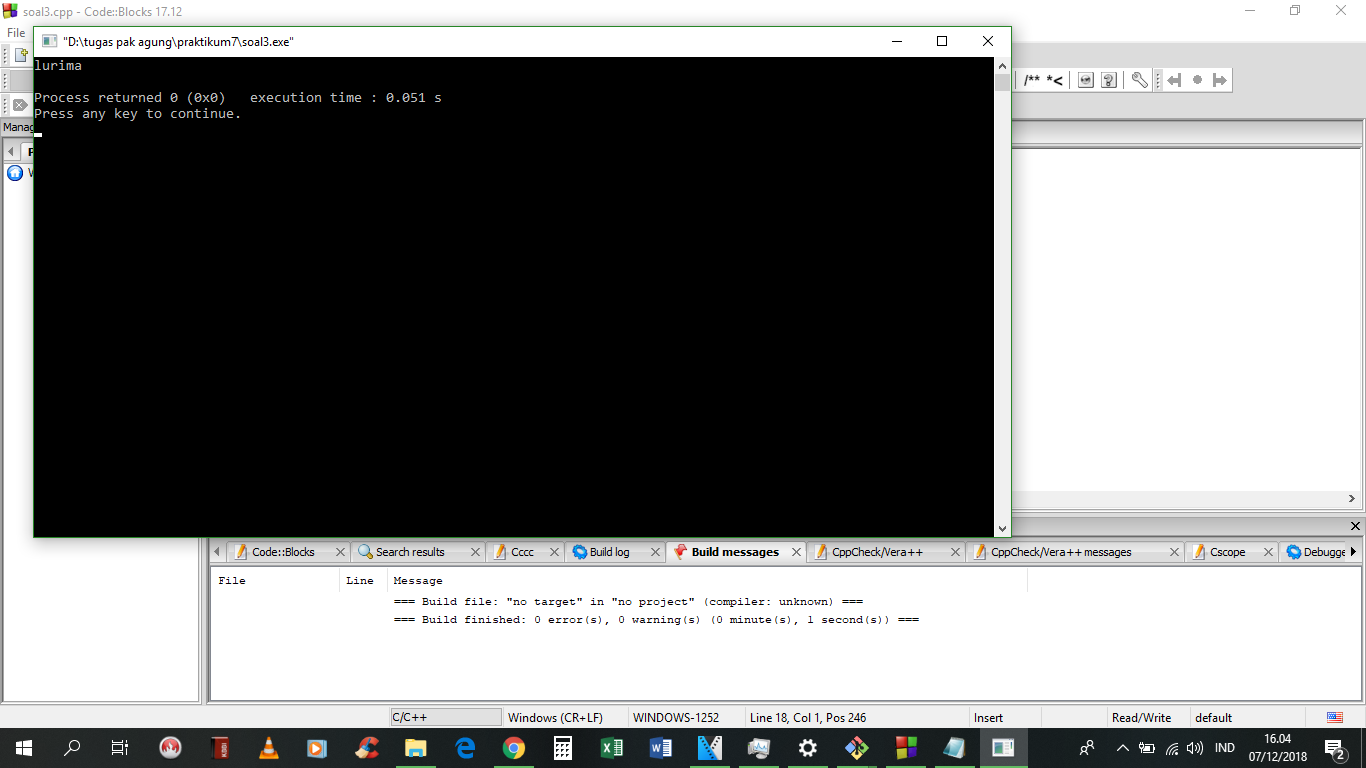
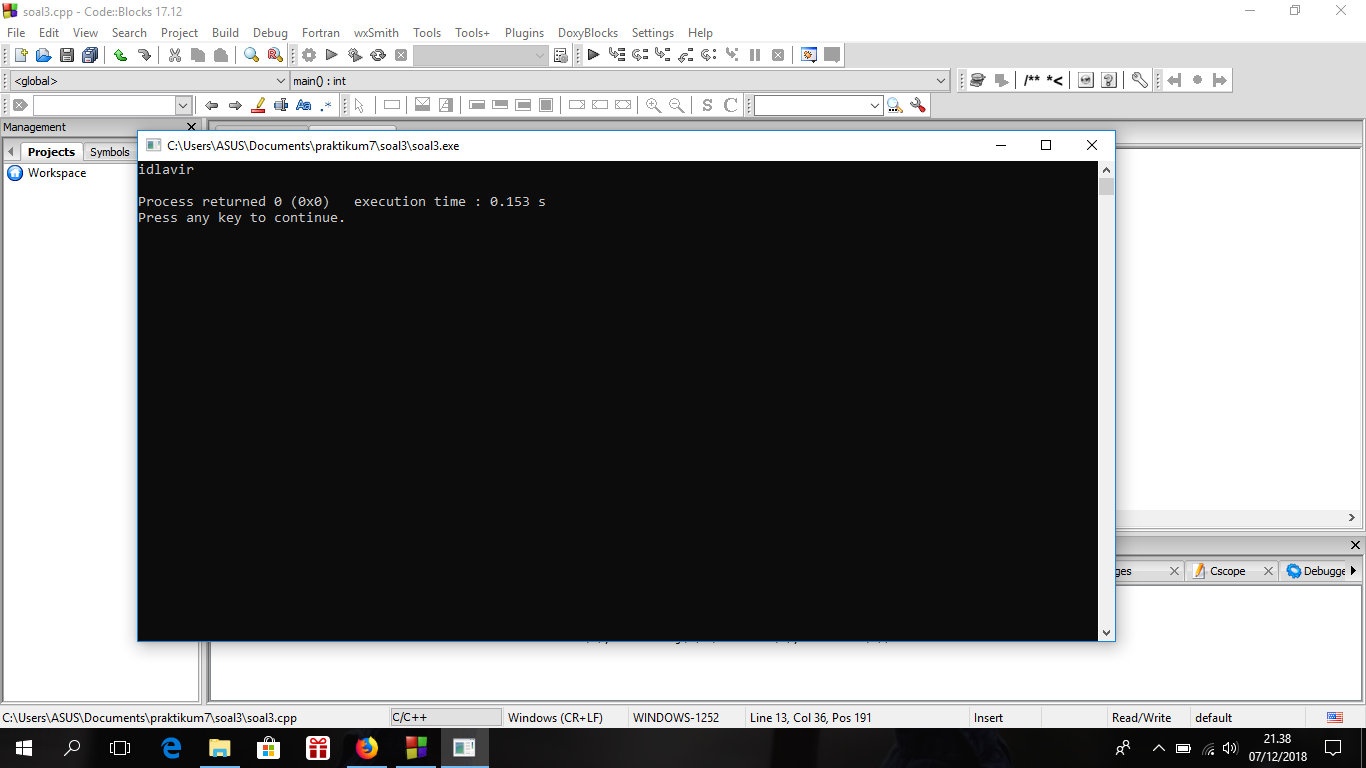
first commit

diff --git a/soal3/soal3.cpp b/soal3/soal3.cpp
@@ -10,7 +10,7 @@ cout << s[0];
 }
 int main()
 {
-      char* kata = (char*) "amirul";
+      char* kata = (char*) "rivaldi";
     balik(kata); cout << endl;
     return 0;
 
